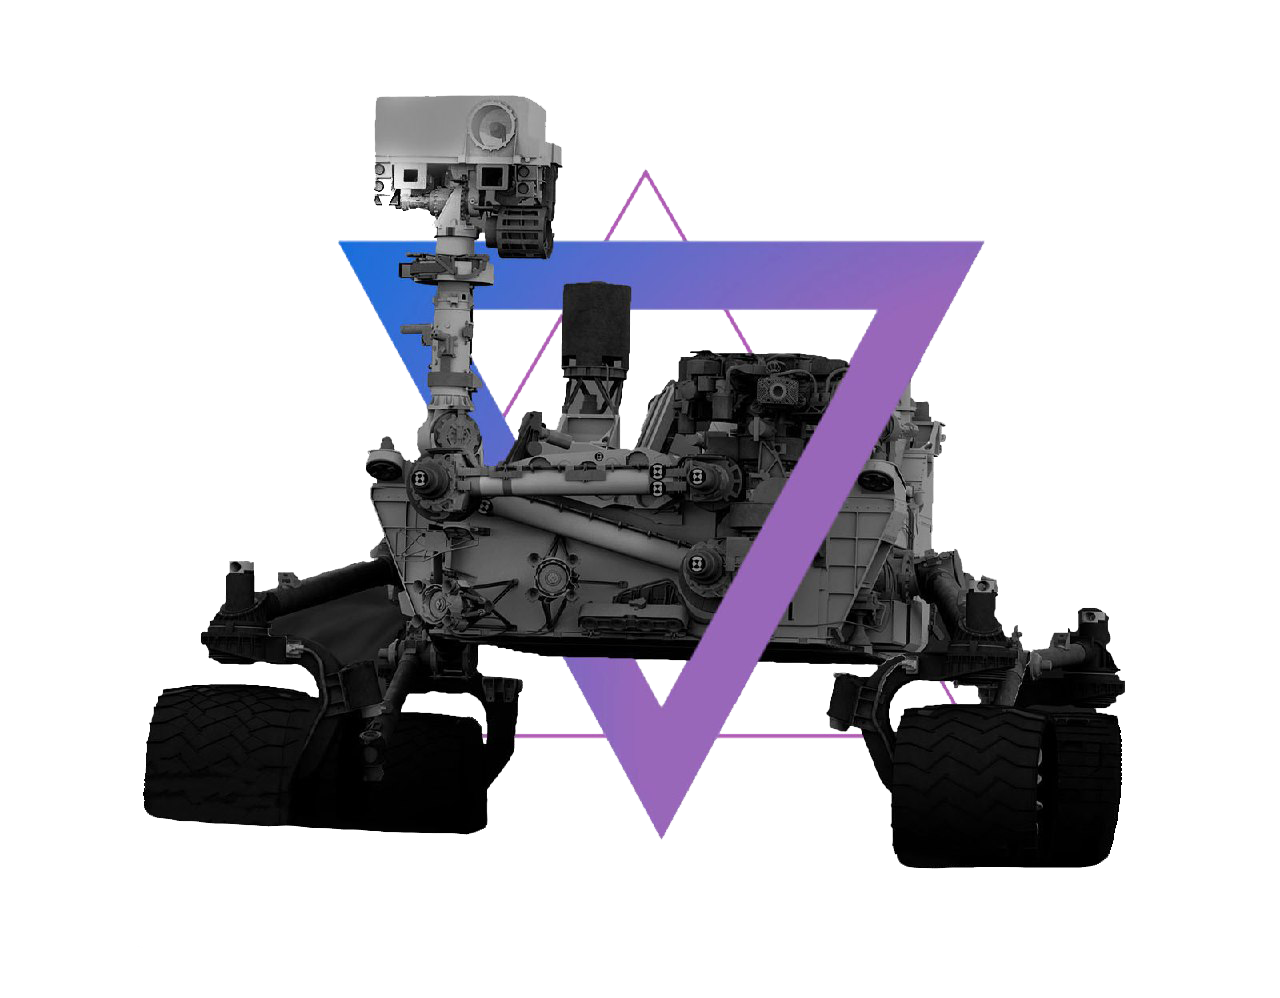
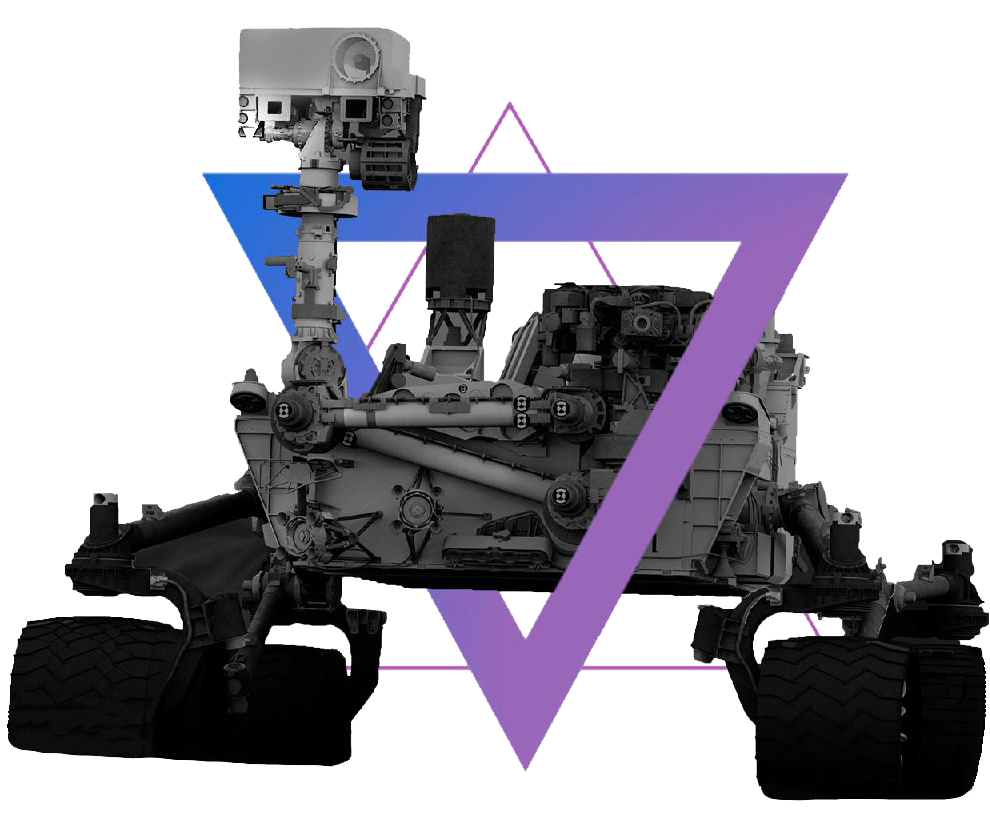
Fixed some size issues

diff --git a/src/main/resources/templates/index.html b/src/main/resources/templates/index.html
@@ -11,7 +11,7 @@
         <div class="container">
             <div class="row justify-content-start" id="first-div-first">
                 <div class="col-lg-6 col-sm-12">
-                    <img class="img-first-div" src="/images/rover/roverbbb.png" width="370" height="370" style="margin-top: 50px"/>
+                    <img class="img-first-div" src="/images/rover/roverlast1.png" width="400" height="330" style="margin-top: 65px"/>
                 </div>
                 <div class="col text-left" style="margin-top: 50px">
                     <h1 class="h1-first-div">Gebze Teknik Üniversitesi</h1>

diff --git a/src/main/resources/static/css/custom.css b/src/main/resources/static/css/custom.css
@@ -312,8 +312,8 @@ body {
     }
 
     .img-first-div {
-        width: 250px;
-        height: 250px;
+        width: 275px;
+        height: 228px;
         text-align: center;
     }
 
@@ -445,8 +445,8 @@ body {
     }
 
     .img-first-div {
-        width: 250px;
-        height: 250px;
+        width: 275px;
+        height: 228px;
         text-align: center;
     }
 
@@ -576,8 +576,8 @@ body {
     }
 
     .img-first-div {
-        width: 300px;
-        height: 300px;
+        width: 330px;
+        height: 274px;
         text-align: center;
     }
 
